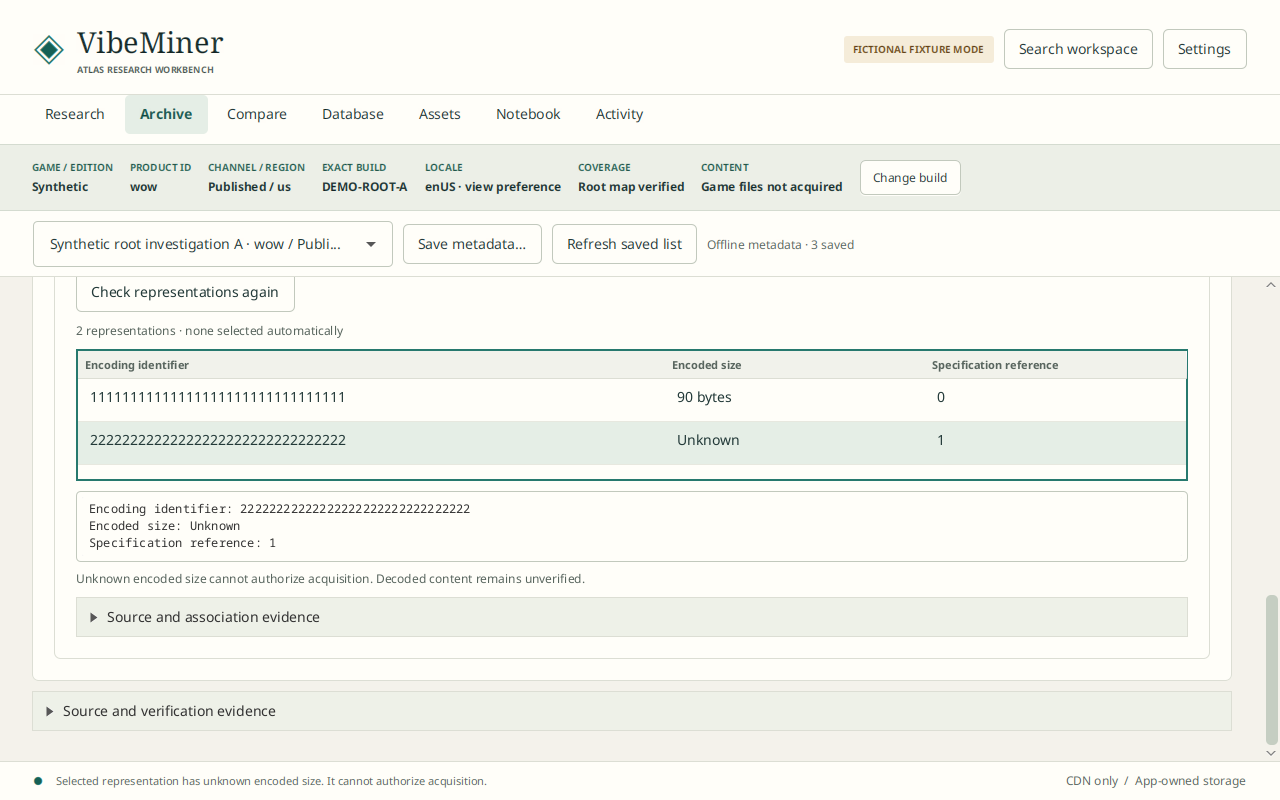
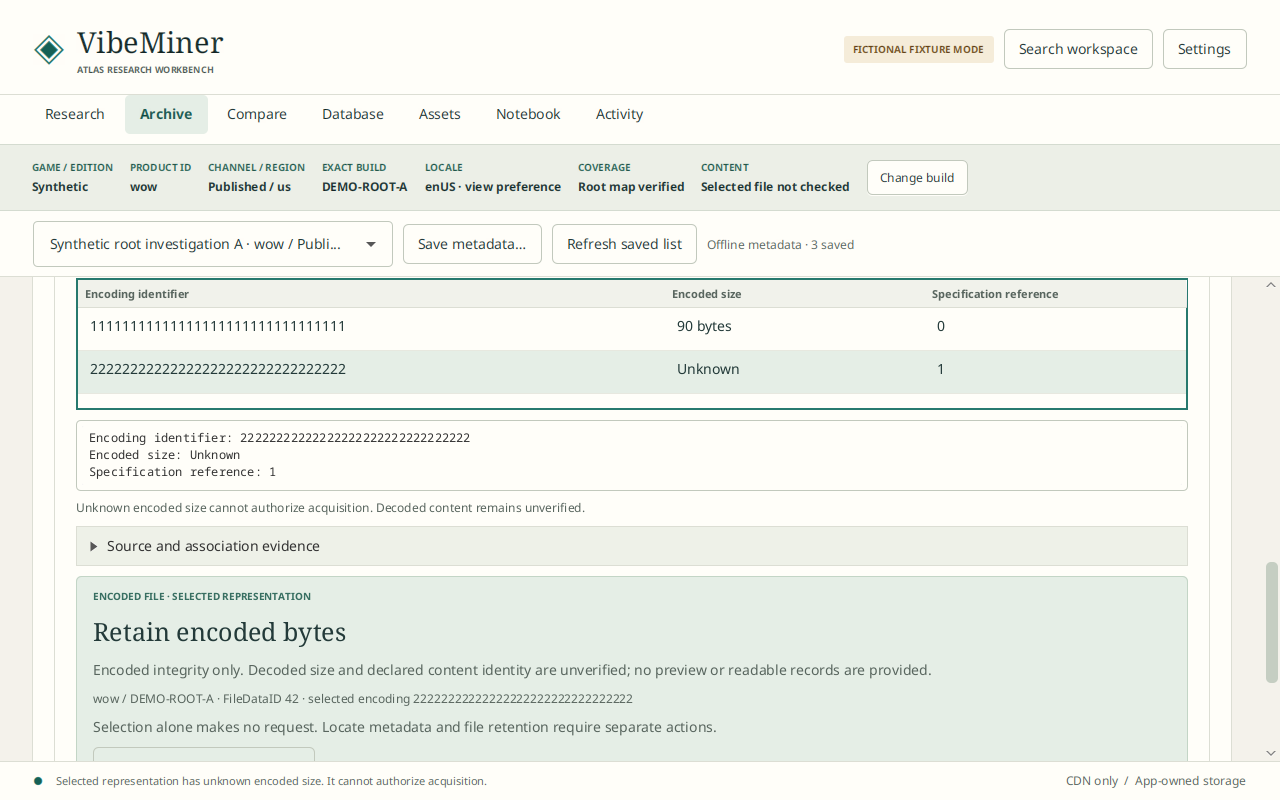
docs: record native encoded-retention UI review and references (#77)

diff --git a/docs/design/SELECTED-FILE-UI.md b/docs/design/SELECTED-FILE-UI.md
@@ -1,6 +1,6 @@
 # Selected-file Atlas interface
 
-Design contract for the staged workflow in [Selected encoded-file acquisition](../FILE-ACQUISITION.md). This document specifies presentation, not delivered capability. Existing lookup remains metadata-only until the selected-file service and its acceptance gates are implemented. No filenames, previews, readable records or decoded verification are fabricated.
+Design and acceptance contract for the staged workflow in [Selected encoded-file acquisition](../FILE-ACQUISITION.md). Root lookup and candidate inspection retain their metadata-only scopes; the selected-file panel adds separate location and encoded-retention consent. Backend integration evidence and native presentation evidence are recorded independently. No filenames, previews, readable records or decoded verification are fabricated.
 
 ## Placement and context
 
@@ -67,3 +67,17 @@ The first slice now binds verified root-variant selection to the real selected-f
 The deterministic native harness [`CaptureSelectedFileCandidates`](../../tools/ui/CaptureSelectedFileCandidates.java) uses real synthetic root/CAS/SQLite setup and a fake selected-file service, with conspicuous fixture disclosure. It checks keyboard inspection/focus, cancellation, stale context, unsupported products, and row visibility at 100%/200%. The original 200% estimate clipped the second row by eight pixels; a failing native geometry check now passes after increasing the scaled header allowance without reducing text size. CI runs this alongside the existing four UI harnesses.
 
 Reviewed fixture references: [metadata consent](selected-file-candidates/selected-file-unchecked-1280x800.png), [candidate choices](selected-file-candidates/selected-file-candidates-1280x800.png), [unknown size](selected-file-candidates/selected-file-unknown-detail-1280x800.png), [source evidence](selected-file-candidates/selected-file-source-1280x800.png), [200% candidates](selected-file-candidates/selected-file-candidates-200pct-1280x800.png), [cancellation](selected-file-candidates/selected-file-cancelled-200pct-1280x800.png), and [unsupported product](selected-file-candidates/selected-file-unsupported-200pct-1280x800.png). These establish fixture presentation behavior, not live CDN acquisition, screen-reader certification or platform-specific font equivalence.
+
+## Staged retention presentation acceptance (#77/#78)
+
+The native interface now separates explicit representation location, typed404 archive-search approval, immutable known-cost retention, approved reuse and offline inspection. An initially unknown EN size may undergo separately approved metadata location; it does not authorize retention until the returned plan establishes a known length. The header reports the selected file's verified state without inferring that no other content has been acquired. Retained results keep encoded integrity separate from decoded content and declared-content identity.
+
+The deterministic [`CaptureSelectedFileRetention`](../../tools/ui/CaptureSelectedFileRetention.java) harness passed in two application JVMs with 17 scene captures at 1280×800, including 200% text scaling. Its root lookup, root verification, CAS and SQLite workspace fixture are real implementations using synthetic transport. **Its selected-file service and persisted selected-file receipts are fake projections.** Small sidecar files simulate restart, missing membership, missing physical bytes and corrupt bytes for presentation checks. This harness does not prove production selected-file protocol verification or catalog persistence; the separate layered backend journey (#76) and exact-variant offline tests (#78) provide their own evidence in the [acquisition specification](../FILE-ACQUISITION.md).
+
+The native checks cover distinct direct/archive consent, no archive search before a typed404 permit and another explicit action, incomplete-search wording, unknown-to-known cost review, zero-transfer reuse versus original acquisition traffic, canonical-conflict blocking, cancellation and stale-ID isolation. Programmatic Enter/Escape inspects candidates without triggering location or retention; offline errors preserve a usable retry focus. The second JVM starts from a retained root variant with no candidate session and invokes only the exact-variant offline service method. It makes no candidate, locator, archive-search or retention calls, and root transport remains zero. Missing membership, missing bytes and failed verification produce distinct states and remove the current verified claim.
+
+Independent review also ran 33 selected-file presentation tests (19 retention and 14 candidate cases). A pure target-policy regression corrected the explicit offline-error focus destination; native checks passed with the final policy. Complete integrity and provenance comparisons reject responses that change the approved reuse receipt or selected plan scope.
+
+Reviewed references: [separate archive consent](selected-file-retention/retention-archive-consent-1280x800.png), [archive cost and Retain](selected-file-retention/retention-archive-cost-1280x800.png), [cost at 200%](selected-file-retention/retention-archive-cost-200pct-1280x800.png), [direct-object cost](selected-file-retention/retention-direct-cost-1280x800.png), [zero-transfer reuse](selected-file-retention/retention-reuse-cost-200pct-1280x800.png), [original acquisition versus current association](selected-file-retention/retention-original-source-1280x800.png), [original receipt at 200%](selected-file-retention/retention-original-receipt-200pct-1280x800.png), [blocked canonical conflict](selected-file-retention/retention-canonical-conflict-200pct-1280x800.png), [restart without a candidate session](selected-file-retention/retention-restart-offline-1280x800.png), and [failed offline integrity](selected-file-retention/retention-corrupt-offline-200pct-1280x800.png).
+
+Cost and the granting action are asserted together inside the workspace viewport at both scales. Screenshots deliberately scroll to each inspected group; they do not imply that the full evidence panel fits simultaneously. Full hashes and receipts remain copyable through wrapped, scrollable text controls. Original verification dates are labeled as original evidence, not a newly reported local-check timestamp. Existing five native harnesses also passed against the staged-retention changes. Candidate references above were intentionally refreshed for the added offline/retention panel and the more precise header; their keyboard and two-row geometry contracts remain intact. These checks do not certify live sources, decoded content, other-platform typography, physical-keyboard ergonomics or assistive technology.

diff --git a/tools/ui/README.md b/tools/ui/README.md
@@ -79,3 +79,21 @@ The first process verifies visible FileDataID restoration across saved A42 → B
 After explicit retention, both synthetic root variants for ID42 remain visible, raw fields and unavailable filenames remain honest, Enter focuses full detail and Escape returns to the table. Source evidence shows the actual retained root separately from configuration proof. ID999 produces only scoped absence after complete verification. The second JVM reopens actual retained bytes with zero transport attempts, verifies exact-workspace membership isolation, then corrupts the physical root while a verified result exists and confirms that local verification failure removes ready coverage and variants without network repair.
 
 Fifteen scene-only PNGs include known/unknown cost, variants, raw detail, source proof, absence, and offline corruption. Screenshots deliberately scroll to the relevant inspected section. Each child has a 90-second application deadline and a 120-second supervisor deadline. Success prints `File lookup UI workflow OK; real services/CAS/SQLite; two JVMs; offline transport forbidden`. These checks use programmatic actions and key events; they do not certify physical keyboard, screen-reader, other-platform or live-CDN compatibility. Metadata lookup never acquires the selected game's file contents, filenames or item records.
+
+## Selected encoded-file presentation
+
+`CaptureSelectedFileRetention.java` runs two application JVMs and checks the Atlas staged-retention interface. It reuses the real synthetic root fixture, CAS and SQLite workspace storage. **The selected-file service is a fake:** candidate, location, search and receipt projections are deterministic fixtures. Small disposable sidecar files simulate its retained association and payload state across restart. Their hash checks exercise UI outcomes; they are not production BLTE verification or selected-file catalog persistence evidence. The separate backend journey in [the acquisition specification](../../docs/FILE-ACQUISITION.md) records those integration gates.
+
+After `:bootstrap:installDist`, compile the helpers as above and use an isolated display:
+
+```bash
+DISPLAY=:191 java --enable-native-access=ALL-UNNAMED \
+  -cp 'build/ui-tool:bootstrap/build/install/bootstrap/lib/*' \
+  CaptureSelectedFileRetention --isolated-display :191 --output build/ui-review/selected-retention
+```
+
+The first child checks explicit candidate selection and keyboard inspection, a separate locator action, a typed404 permit followed by separately approved archive search, incomplete-search wording, an initially unknown encoding size resolved to a known acquisition plan, cost/action geometry at 100% and 200%, direct and archive routes, explicit retention, zero-transfer reuse with unchanged original traffic evidence, blocked canonical conflict, cancellation and stale-ID suppression. It does not send HTTP or acquire real game content.
+
+The second child starts with only a retained root variant and no candidate session. Its explicit offline action must call the exact-variant service API without candidate, locator, search or retention calls. Simulated missing membership, missing bytes and corrupt bytes remain distinct; verification failure clears the ready header and preserves a usable keyboard retry action. The harness removes its temporary directory after both children finish. It never opens the normal user catalog.
+
+Screenshots deliberately scroll to the inspected scope, cost, action or evidence. The child deadline is 120 seconds and the supervisor allows 150 seconds per child. Success prints `Selected retention UI OK` and explicitly identifies the fake selected service. Programmatic keyboard/scene checks establish Linux fixture presentation behavior; they do not certify live sources, production selected-file integrity, other platforms, assistive technology, decoded content or filenames.
